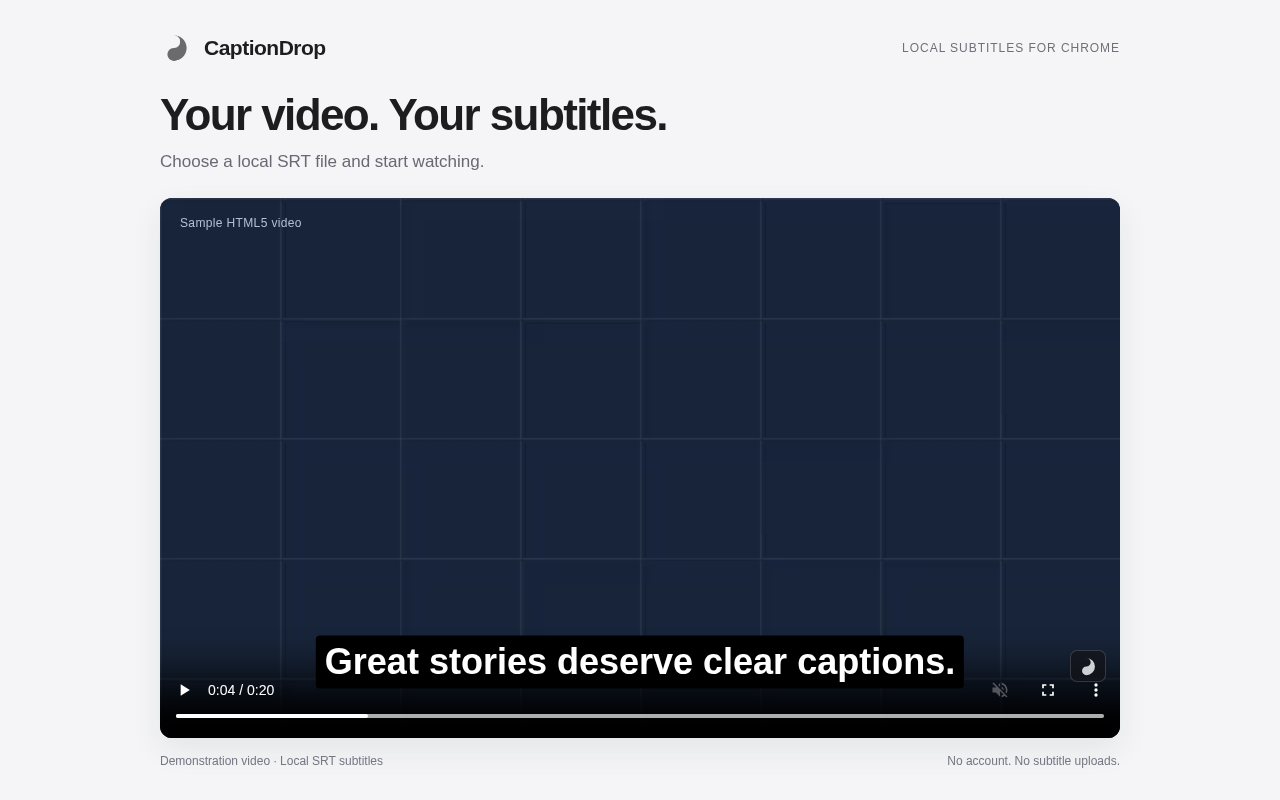
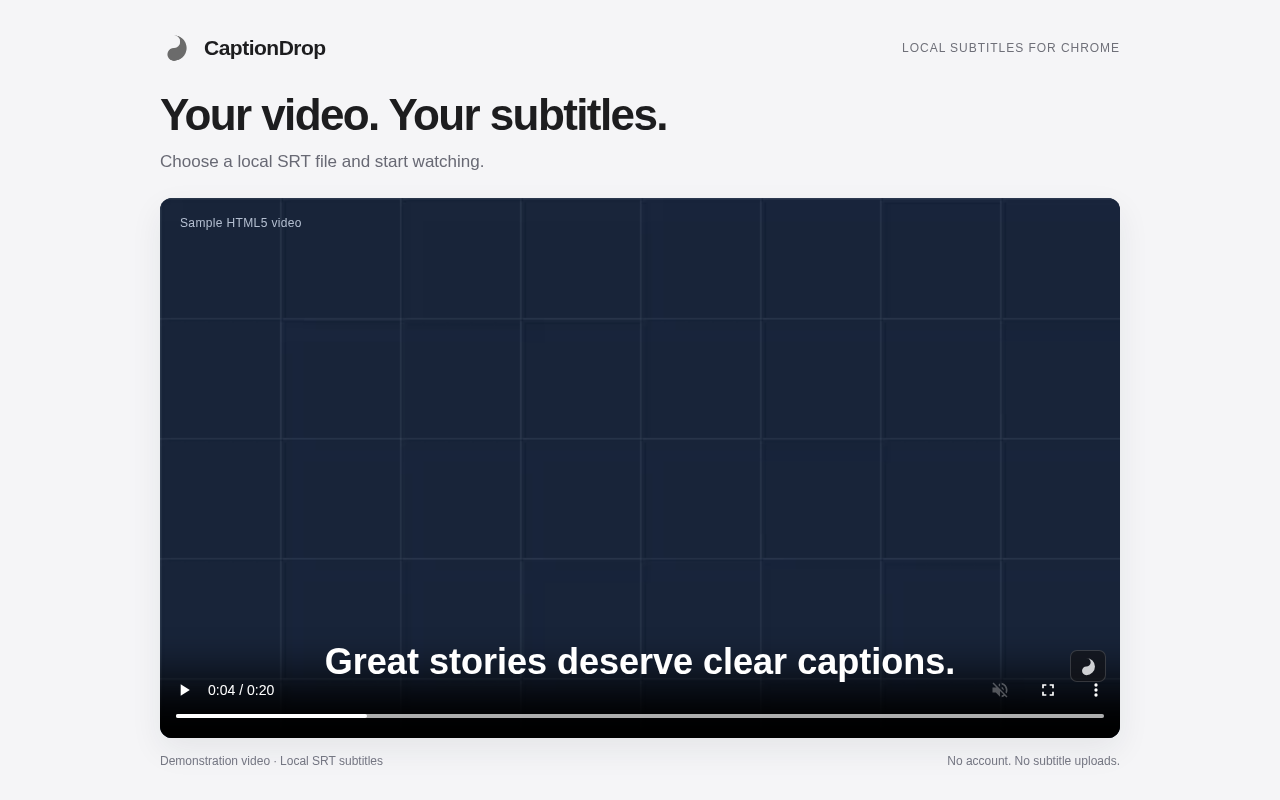
Limit caption backgrounds to black or transparent

Changed region(s): [[0.25, 0.7812, 0.75, 0.875]]

diff --git a/content.js b/content.js
@@ -284,10 +284,10 @@
   const STYLES = `
     :host{all:initial;display:block;font-family:-apple-system,BlinkMacSystemFont,"Segoe UI",sans-serif;color:#f5f5f7;line-height:1.4;color-scheme:dark;direction:ltr}
     *,*::before,*::after{box-sizing:border-box}
-    button,input{font:inherit}button{cursor:pointer}button:focus-visible,input:focus-visible,.caption:focus-visible{outline:2px solid #90bfff;outline-offset:3px}
+    button,input,select{font:inherit}button{cursor:pointer}button:focus-visible,input:focus-visible,select:focus-visible,.caption:focus-visible{outline:2px solid #90bfff;outline-offset:3px}
     [hidden]{display:none!important}
     .surface{position:absolute;inset:0;pointer-events:none}
-    .caption{position:absolute;left:50%;top:86%;transform:translate(-50%,-50%);width:max-content;max-width:calc(100% - 20px);max-height:100%;overflow:hidden;white-space:pre-wrap;overflow-wrap:anywhere;text-align:center;font-family:Arial,"Noto Sans",sans-serif;font-size:28px;font-weight:600;line-height:1.3;color:#fff;background:#000;padding:3px 9px;border-radius:4px;pointer-events:auto;cursor:grab;touch-action:none;user-select:none;-webkit-user-select:none;text-shadow:none;unicode-bidi:plaintext}
+    .caption{position:absolute;left:50%;top:86%;transform:translate(-50%,-50%);width:max-content;max-width:calc(100% - 20px);max-height:100%;overflow:hidden;white-space:pre-wrap;overflow-wrap:anywhere;text-align:center;font-family:Arial,"Noto Sans",sans-serif;font-size:28px;font-weight:600;line-height:1.3;color:#fff;background:transparent;padding:3px 9px;border-radius:4px;pointer-events:auto;cursor:grab;touch-action:none;user-select:none;-webkit-user-select:none;text-shadow:none;unicode-bidi:plaintext}
     .caption.dragging{cursor:grabbing;outline:1px solid rgba(255,255,255,.5)}
     .trigger{position:absolute;bottom:12px;right:54px;pointer-events:auto;width:36px;height:32px;display:grid;place-items:center;padding:0;color:white;background:rgba(20,20,22,.8);border:1px solid rgba(255,255,255,.2);border-radius:7px;opacity:.8;transition:opacity .12s}
     .surface.native-controls .trigger{bottom:56px;right:14px}
@@ -303,6 +303,7 @@
     .toggle{appearance:none;-webkit-appearance:none;position:relative;margin:0;width:32px;height:19px;border-radius:20px;background:#53545c;border:0;cursor:pointer;transition:background .12s}.toggle::after{content:"";position:absolute;left:3px;top:3px;width:13px;height:13px;background:#fff;border-radius:50%;transition:transform .12s}.toggle:checked{background:#5e8ff3}.toggle:checked::after{transform:translateX(13px)}
     .size{width:100%;height:20px;margin:3px 0 9px;accent-color:#a5bff7;cursor:pointer}
     input[type=color]{appearance:none;-webkit-appearance:none;width:32px;height:24px;border:1px solid #666874;border-radius:5px;padding:2px;background:transparent;cursor:pointer}input[type=color]::-webkit-color-swatch-wrapper{padding:0}input[type=color]::-webkit-color-swatch{border:0;border-radius:2px}
+    .background{max-width:140px;min-height:28px;border:1px solid #666874;border-radius:5px;padding:3px 7px;color:#f5f5f7;background:#25262c;cursor:pointer}
     .hint{color:#9b9da7;font-size:11px;margin:10px 0 0}.status{font-size:11px;color:#a9abb3;margin:12px 0 0;overflow-wrap:anywhere}.status.error{color:#ffc99f}
     .forget{display:block;border:0;background:transparent;color:#b7b9c4;padding:0;margin-top:12px;font-size:11px;text-decoration:underline;text-underline-offset:3px}.forget:hover{color:white}
     @media(prefers-reduced-motion:reduce){*{transition:none!important}}
@@ -375,10 +376,15 @@
     color.type = 'color'; color.id = 'text-color';
     textRow.append(textLabel, color);
     const backgroundRow = make('div', 'row');
-    const backgroundLabel = make('label', '', 'Background color');
+    const backgroundLabel = make('label', '', 'Background');
     backgroundLabel.htmlFor = 'background-color';
-    const background = make('input');
-    background.type = 'color'; background.id = 'background-color';
+    const background = make('select', 'background');
+    background.id = 'background-color';
+    for (const [value, label] of [['#000000', 'Black'], ['transparent', 'Transparent']]) {
+      const option = make('option', '', label);
+      option.value = value;
+      background.append(option);
+    }
     backgroundRow.append(backgroundLabel, background);
     const hint = make('p', 'hint', 'Drag captions to place them anywhere on the video.');
     const status = make('p', 'status', 'Loaded for this visit.');
@@ -447,7 +453,8 @@
       applyAppearance(state);
       queueSave(state);
     };
-    for (const control of [size, color, background]) listen(control, 'input', applySettings);
+    for (const control of [size, color]) listen(control, 'input', applySettings);
+    listen(background, 'change', applySettings);
     listen(forget, 'click', async () => {
       forget.disabled = true;
       const result = await send({ type: 'CD_FORGET', identity: state.identity });

diff --git a/core.js b/core.js
@@ -9,7 +9,7 @@
   const MAX_FILE_BYTES = 2 * 1024 * 1024;
   const MAX_CUES = 20000;
   const DEFAULT_STYLE = Object.freeze({
-    size: 28, color: '#ffffff', background: '#000000', x: 0.5, y: 0.86,
+    size: 28, color: '#ffffff', background: 'transparent', x: 0.5, y: 0.86,
   });
   const ENTITIES = Object.freeze({
     amp: '&', lt: '<', gt: '>', quot: '"', apos: "'", nbsp: '\u00a0',
@@ -157,7 +157,7 @@
     return {
       size: bounded(input.size, DEFAULT_STYLE.size, 16, 64),
       color: normalizeColor(input.color, DEFAULT_STYLE.color),
-      background: normalizeColor(input.background, DEFAULT_STYLE.background),
+      background: ['#000000', 'transparent'].includes(input.background) ? input.background : DEFAULT_STYLE.background,
       x: bounded(input.x, DEFAULT_STYLE.x, 0.05, 0.95),
       y: bounded(input.y, DEFAULT_STYLE.y, 0.05, 0.95),
     };

diff --git a/REQUIREMENTS.md b/REQUIREMENTS.md
@@ -22,7 +22,7 @@ an account, backend, subtitle upload, or external runtime dependencies.
   20,000 non-empty cues.
 - Initial detection follows a click on the toolbar icon. Automatic restoration
   runs on sites where the user has enabled automatic loading and granted access.
-- Caption text size, text color, background color, and position are customizable.
+- Caption text size, text color, background (Black or Transparent), and position are customizable.
 - Caption timing follows video playback automatically; no manual timing controls.
 - Interface: compact, clear, and elegant, with YouTube-like control familiarity
   and an Apple-inspired, restrained visual direction.
@@ -83,13 +83,15 @@ pausing, and different playback speeds.
 
 ### FR-04 — Customize caption appearance
 
-- Provide controls for text size, text color, and caption background color.
+- Provide controls for text size, text color, and caption background with exactly
+  two options: Black and Transparent.
 - Apply changes immediately to CaptionDrop's subtitle block without reloading the
   file, seeking, pausing playback, or changing synchronization.
 - Retain the selected appearance when changing cues and entering fullscreen.
 
-Build defaults: 28 px white text on a black caption background; text size range
-16–64 px; standard color pickers; settings remembered per video.
+Build defaults: 28 px white text on a transparent caption background; text size range
+16–64 px; a standard text color picker and Black/Transparent background selector;
+settings remembered per video. Previously saved custom backgrounds fall back to Transparent.
 
 ### FR-05 — Keep subtitles readable in normal view and fullscreen
 
@@ -118,7 +120,7 @@ fullscreen, repeated fullscreen entry, and cleanup after leaving fullscreen.
 - Place it alongside available YouTube/Bilibili controls; use an overlay fallback
   near the control area for other players.
 - Clicking it opens a compact panel with file selection/replacement, caption
-  visibility, text size, text color, background color, and forget-memory actions.
+  visibility, text size, text color, background (Black or Transparent), and forget-memory actions.
 - Keep existing player controls usable; avoid duplicate CaptionDrop buttons.
 - Support keyboard activation, clear labels, and visible focus.
 - Keep the button available after manual loading or automatic restoration.

diff --git a/README.md b/README.md
@@ -22,7 +22,8 @@ into a Windows folder and load that folder in Chrome.
 2. Select a detected video. The system file browser opens immediately.
 3. Choose your `.srt` subtitle file.
 4. Use the small **CaptionDrop** button near the video's controls to change text
-   size, text color, background color, or caption visibility, or choose a new file.
+   size, text color, background (Black or Transparent; Transparent by default),
+   or caption visibility, or choose a new file.
 5. Drag the caption block to move it. The position carries over to the next cue.
    Focused captions can also be moved with the arrow keys.
 
